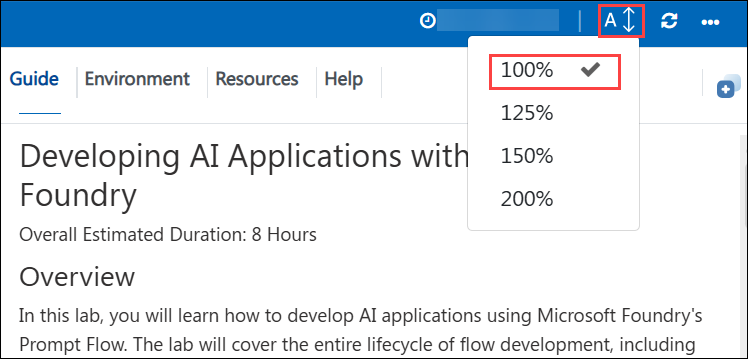
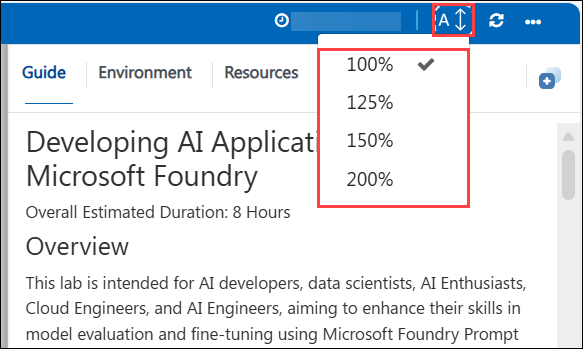
lab guides updated

Changed region(s): [[0.0, 0.0, 1.0, 1.0]]

diff --git a/Labs/Overview.md b/Labs/Overview.md
@@ -1,8 +1,8 @@
-# 🚀 Developing AI Applications with Microsoft Foundry
+# Developing AI Applications with Microsoft Foundry
 
 #### ⏱ Overall Estimated Duration: 8 Hours
 
-## 💡 Lab Scenario
+## 💡 Scenario
 
 Imagine you are part of the Contoso customer success team for a retail business that needs to automate support ticket triage, deliver consistent product recommendations, and ensure every customer interaction follows responsible AI guidelines. In this lab, you'll build and evaluate prompt flows that transform real customer questions into reliable responses, refine prompts to improve model accuracy, and implement chat flows that integrate with tools such as recommendation engines and moderation systems. This hands-on scenario reflects a real-world business challenge: using AI to make customer-facing operations faster, smarter, and safer.
 
@@ -10,7 +10,7 @@ Imagine you are part of the Contoso customer success team for a retail business 
 
 In this lab, you will learn how to develop AI applications using Microsoft Foundry's Prompt Flow. The lab will cover the entire lifecycle of flow development, including building and customizing prompt flows, evaluating model performance, fine-tuning prompts for optimal results, implementing chat flows with tool integration, and ensuring responsible AI practices with content safety measures. By the end of this lab, you will have hands-on experience in creating and refining AI models using Microsoft Foundry.
 
-## 🎯 Objective
+## 🎯 Objectives
 
 This lab is designed to equip participants with hands-on experience in model evaluation and fine-tuning using Microsoft Foundry Prompt Flow. By completing this lab, participants will learn to:
 
@@ -55,7 +55,7 @@ The architecture for this lab involves the following key components:
   
 ## 🚀 Getting Started with the Lab
 
-We've prepared a seamless environment for you to explore and learn about the connection between creating, evaluating, and fine-tuning AI models using Prompt Flow. Let's begin by making the most of this experience:
+Welcome to your **Developing AI Applications with Microsoft Foundry** Workshop! We've prepared a seamless environment for you to explore and learn about Copilot Studio and its utilization. Let's begin by making the most of this experience::
 
 ## 🔑 Accessing Your Lab Environment
 
@@ -87,7 +87,7 @@ Feel free to **Start, Stop, or Restart (2)** your virtual machine as needed from
 
 ## 🔎 Lab Guide Zoom In/Zoom Out
 
-To adjust the zoom level for the environment page, click the **A↕: 100%** icon located next to the timer in the lab environment.
+To adjust the zoom level for the environment page, click the **A↕** icon located next to the timer in the lab environment.
 
 ![Zoom In/Zoom Out](./media/lab1-z.png)  
 

diff --git a/Labs/Exercise-06.md b/Labs/Exercise-06.md
@@ -1,4 +1,4 @@
-# 🚀 Lab 06: Ensuring Responsible AI Practices with Content Safety 
+# Lab 06: Ensuring Responsible AI Practices with Content Safety 
 
 #### ⏱ Estimated Duration: 90 Minutes
 
@@ -6,7 +6,7 @@
 
 You are a prompt engineer at Contoso Travel tasked with building a responsible conversational assistant. In this lab, you will implement content safety checks for both images and text, validate the system with safe and unsafe examples, and confirm the solution meets Contoso’s responsible AI standards.
 
-## 🧭 Overview
+## 📘 Overview
 
 This lab provides hands-on experience in implementing responsible AI practices using Microsoft Foundry. Participants will gain insights into fairness, transparency, privacy, and security considerations while leveraging Azure’s built-in Responsible AI tools. The lab focuses on detecting and mitigating biases, ensuring model interpretability, applying privacy-preserving techniques, and enforcing security and compliance best practices.
 
@@ -28,7 +28,7 @@ In this task, you will use Microsoft Foundry to moderate both images and text by
 
      ![](./media/L6T1S2-1911.png)
 
-3. Scroll down, On **Moderate image content** select **Run a simple test (1)** tab, and review the options. Note we have three sets of content:  **Safe content**, **self-harm content**, and **AI-generated sexual content**. **(2)**
+3. Scroll down, on **Moderate image content** select **Run a simple test (1)** tab, and review the options. Note we have three sets of content:  **Safe content**, **self-harm content**, and **AI-generated sexual content**. **(2)**
 
      ![](./media/L6T1S3-1911.png)
 
@@ -80,7 +80,7 @@ Now, let’s test an image that contains self-harm content. We expect the model 
 
      ![](./media/selfharm2.png)
 
-### 1.1⃣ Task 1.1: Run a bulk test
+### Task 1.1: Run a bulk test
 
 In this task, we will test a bulk dataset of images provided by customers. The dataset also includes sample harmful images to test the model’s ability to detect harmful content. Each record in the dataset includes a label to indicate whether the content is harmful. 
 
@@ -105,7 +105,7 @@ Let’s do another test round, but this time with the data set!
 
    ![](./media/selfharm4.png)
 
-### 1.2⃣ Task 1.2: Text moderation using Moderate text content 
+### Task 1.2: Text moderation using Moderate text content 
 
 In this task, we will analyze text content for safety, including safe and harmful text, as well as misspellings. We will also perform bulk testing on a dataset of text content.
 

diff --git a/Labs/Exercise-01.md b/Labs/Exercise-01.md
@@ -1,4 +1,4 @@
-# 🚀 Lab 01: Understanding the Lifecycle of Flow Development (READ ONLY)
+# Lab 01: Understanding the Lifecycle of Flow Development (READ ONLY)
 
 #### ⏱ Estimated Duration: 30 Minutes
 
@@ -19,7 +19,7 @@ There are no practical tasks to perform in this lab. Instead, you are expected t
 
 This foundational understanding will prepare you for the upcoming hands-on labs.
 
-## 🎯 Objective
+## 🎯 Objectives
 
 In this lab, you will understand and review the following concepts:
 
@@ -43,7 +43,7 @@ Experimentation: Run the flow against sample data, evaluate the prompt's perform
 
   >**Note:** By following this structured and methodical approach, prompt flow empowers you to develop, rigorously test, fine-tune, and deploy flows with confidence, resulting in the creation of robust and sophisticated AI applications.
 
-### 1.1⃣ Task 1.1: Understand the types of flows
+### Task 1.1: Understand the types of flows
 
 In this task, you will explore different flow types in Microsoft Foundry:
 
@@ -55,7 +55,7 @@ In this task, you will explore different flow types in Microsoft Foundry:
 
      ![](./media/image-48.png)
 
-### 1.2⃣ Task 1.2: Understand a flow
+### Task 1.2: Understand a flow
 
 In this task, you will explore **Prompt flow**, a feature within the Microsoft Foundry.
 
@@ -73,7 +73,7 @@ In this task, you will explore **Prompt flow**, a feature within the Microsoft F
 
 1. To facilitate node configuration and fine-tuning, a visual representation of the workflow structure is provided through a DAG (Directed Acyclic Graph). This graph showcases the connectivity and dependencies between nodes, providing a clear overview of the entire workflow.
 
-### 1.3⃣ Task 1.3: Explore the tools available in prompt flow
+### Task 1.3: Explore the tools available in prompt flow
 
 In this task, you will explore the tools available in Prompt Flow within Microsoft Foundry.
 

diff --git a/Labs/Exercise-05.md b/Labs/Exercise-05.md
@@ -1,4 +1,4 @@
-# 🚀 Lab 05: Implementing Chat Flow and Tool Integration
+# Lab 05: Implementing Chat Flow and Tool Integration
 
 #### ⏱ Estimated Duration: 60 Minutes
 
@@ -6,7 +6,7 @@
 
 You are a prompt engineer at Contoso Travel, building a conversational travel assistant using Microsoft Foundry. In this lab, you will create a working chat flow connected to a deployed language model, validate it with sample user queries, and publish the flow so it can be consumed as a chat endpoint.
 
-## 🧭 Overview
+## 📘 Overview
 
 In this lab, you will be designing and implementing a chat flow to interact with a deployed language model. You will start by creating a basic chat flow using Microsoft Foundry, which includes integrating inputs, an LLM node, and configuring the output to reflect chat responses. You will then test the chat flow, ensure it functions correctly, and deploy it to a production environment.
 
@@ -41,7 +41,7 @@ In this task, you will design and implement a chat flow using Microsoft Foundry 
    - Model version: **2025-04-14 (Default) (3)**
    - Connected AI resource: select **ai-modelhub<inject key="DeploymentID" enableCopy="false"/> (4)**
    - Tokens per Minute Rate Limit: **10K (5)**
-      > **Note:** Use the &rarr; (right arrow) key on the keyboard to set the Enqueued Tokens (Limit) to 10k.
+      > **Note:** Use the &rarr; (right arrow) key on the keyboard to set the Enqueued Tokens (Limit) to 10K.
    - Content Filter: **DefaultV2 (6)**
    - Select **Deploy (7)**
 

diff --git a/Labs/Exercise-04.md b/Labs/Exercise-04.md
@@ -1,4 +1,4 @@
-# 🚀 Lab 04: Fine-Tuning Prompts for Optimal Performance
+# Lab 04: Fine-Tuning Prompts for Optimal Performance
 
 #### ⏱ Estimated Duration: 120 Minutes
 
@@ -9,7 +9,6 @@ At Contoso, the initial AI system is working, but the quality of responses for c
 ## 📘 Overview
 
 In this lab, you will explore fine-tuning prompts for optimal performance, learning how to craft precise and effective input queries that maximize the accuracy, relevance, and efficiency of AI generated responses. 
-s
 You will experiment with structuring prompts to guide AI behavior, incorporating context, constraints, and desired output formats to achieve more consistent results. By iterating on prompt design and analyzing AI responses, you will develop best practices for refining inputs to suit various use cases, from summarization and data extraction to creative writing and technical problem-solving.
  
 ## 🎯 Objectives

diff --git a/Labs/Exercise-02.md b/Labs/Exercise-02.md
@@ -1,4 +1,4 @@
-# 🚀 Lab 02: Building and Customizing Prompt Flows
+# Lab 02: Building and Customizing Prompt Flows
 
 #### ⏱ Estimated Duration: 90 Minutes
 
@@ -123,7 +123,7 @@ In this task, you will focus on creating and customizing prompts by designing ta
    - Model version: **2025-04-14 (Default) (3)**
    - AI resource: select **ai-modelhub<inject key="DeploymentID" enableCopy="false"/> (4)**
    - Tokens per Minute Rate Limit (thousands): **5 K (5)**
-      > **Note:** Use the &rarr; (right arrow) key on the keyboard to set the Enqueued Tokens (Limit) to 5k.
+      > **Note:** Use the &rarr; (right arrow) key on the keyboard to set the Enqueued Tokens (Limit) to 5K.
    - Content filter: **DefaultV2 (6)**
    - Select **Connect and deploy (7)**
 

diff --git a/Labs/Exercise-03.md b/Labs/Exercise-03.md
@@ -1,4 +1,4 @@
-# 🚀 Lab 03: Evaluation Flow Setup
+# Lab 03: Evaluation Flow Setup
 
 #### ⏱ Estimated Duration: 90 Minutes
 
